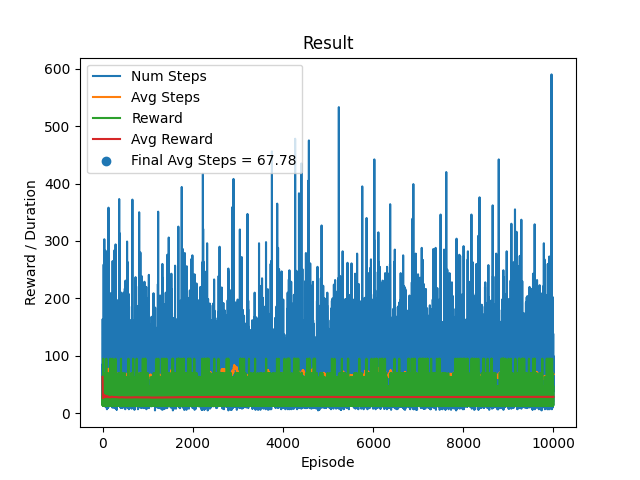
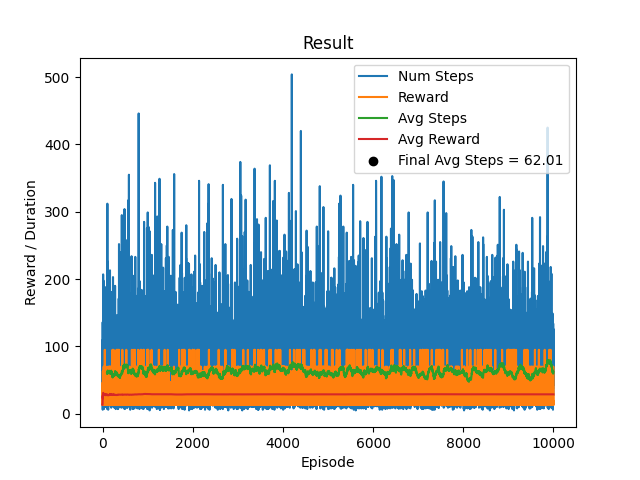
Fixes and adds some plots

diff --git a/NEV/gen_data_plotter.py b/NEV/gen_data_plotter.py
@@ -26,65 +26,11 @@ def create_permutations_histogram(file_name: str, output_file_name: str):
     plt.title("DQN - Histogram of Steps for 1000 Permutations")
     plt.xlabel("Steps")
     plt.ylabel("Number of Permutations")
-    plt.show()
     plt.savefig(output_file_name)
+    plt.show()
 
 
 if __name__ == "__main__":
     create_permutations_histogram(
         "NEV/Results/Chase/permutations_DQN_v2.csv", "DQN_histogram_v2"
     )
-
-    gen_data_df = pd.read_csv("NEV/Results/Chase/generation_data_v2.csv")
-
-    gen_layers = [
-        data
-        for data in zip(
-            gen_data_df["generation"].values,
-            gen_data_df["layers"].values,
-            gen_data_df["activations"].values,
-        )
-    ]
-    layers_counts = []
-    neurons_counts = []
-    active_func_counts = []
-    for gen, layers, active_funcs in gen_layers:
-        layers_counts.append([gen, len(ast.literal_eval(layers))])
-        for layer in ast.literal_eval(layers):
-            neurons_counts.append([gen, int(layer)])
-        for active_func in active_funcs.replace("[", "").replace("]", "").split(","):
-            active_func_counts.append([gen, active_func.strip()])
-
-    plt.scatter(*zip(*layers_counts))
-    plt.ylabel("Number of Hidden Layers")
-    plt.xlabel("Generation")
-    plt.yticks([1, 2, 3, 4])
-    plt.title("Number of Hidden Layers over Generations")
-    plt.show()
-
-    plt.scatter(*zip(*neurons_counts))
-    plt.xlabel("Generation")
-    plt.ylabel("Nodes in Layer")
-    plt.yticks([2, 4, 8, 16, 32, 64])
-    plt.title("Number of Nodes in Hidden Layers over Generations")
-    plt.show()
-
-    plt.scatter(*zip(*active_func_counts))
-    plt.xlabel("Generation")
-    plt.ylabel("Activation Function")
-    plt.title("Activation Functions over Generations")
-    plt.show()
-
-    plt.scatter(gen_data_df["generation"], gen_data_df["lr"], s=15)
-    plt.xlabel("Generation")
-    plt.ylabel("Learning Rate")
-    plt.yticks([0.001, 0.002, 0.005, 0.008, 0.01])
-    plt.title("Learning Rate Values over Generations")
-    plt.show()
-
-    plt.scatter(gen_data_df["generation"], gen_data_df["tau"])
-    plt.xlabel("Generation")
-    plt.ylabel("Tau")
-    plt.yticks([0.001, 0.005, 0.01, 0.02, 0.05])
-    plt.title("Tau Values over Generations")
-    plt.show()

diff --git a/NEV/plotter.py b/NEV/plotter.py
@@ -16,13 +16,13 @@ def plot_durations(reward, episode_durations, avg_reward, show_result=False):
 
     plt.clf()
     plt.plot(durations_t.numpy(), label="Num Steps")
-    plt.plot(*zip(*running_avg), label = "Avg Steps")
     plt.plot(reward_t.numpy(), label="Reward")
+    plt.plot(*zip(*running_avg), label = "Avg Steps")
     plt.plot(avg_reward.numpy(), label="Avg Reward")
     
     if show_result:
         plt.title("Result")
-        plt.scatter(len(running_avg), running_avg[-1][1], label=f"Final Avg Steps = {running_avg[-1][1]}")
+        plt.scatter(len(running_avg), running_avg[-1][1], label=f"Final Avg Steps = {running_avg[-1][1]}", c="black")
     else:
         plt.title("Training...")
     plt.xlabel("Episode")
